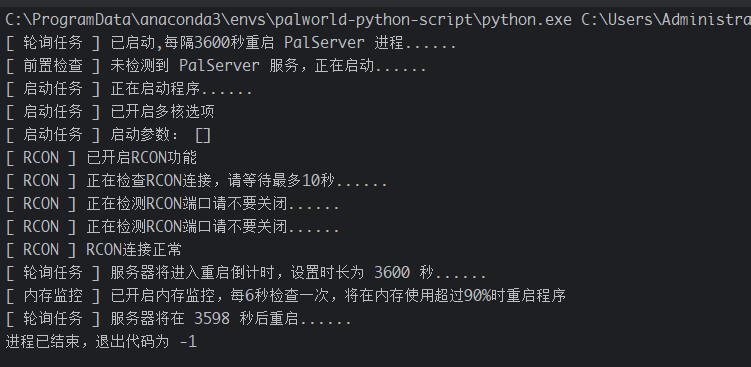
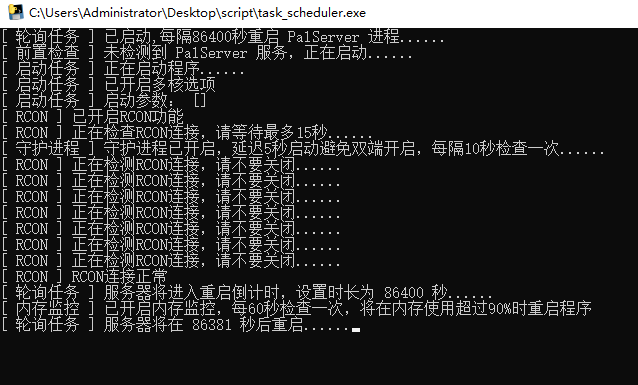
perf: 优化打印&日志输出，增加RCON连接检测

Changed region(s): [[0.0, 0.0, 1.0, 0.9591]]

diff --git a/task_scheduler.py b/task_scheduler.py
@@ -95,7 +95,7 @@ class TaskScheduler:
                         break
                     time.sleep(1)  # 每次尝试后，暂停1秒
 
-                if time.time() - start_time >= 15:
+                else:
                     INFO.logger.error("[ RCON ] 无法在15秒内建立RCON连接")
                     print("[ RCON ] 无法在15秒内建立RCON连接")
                     exit(0)
